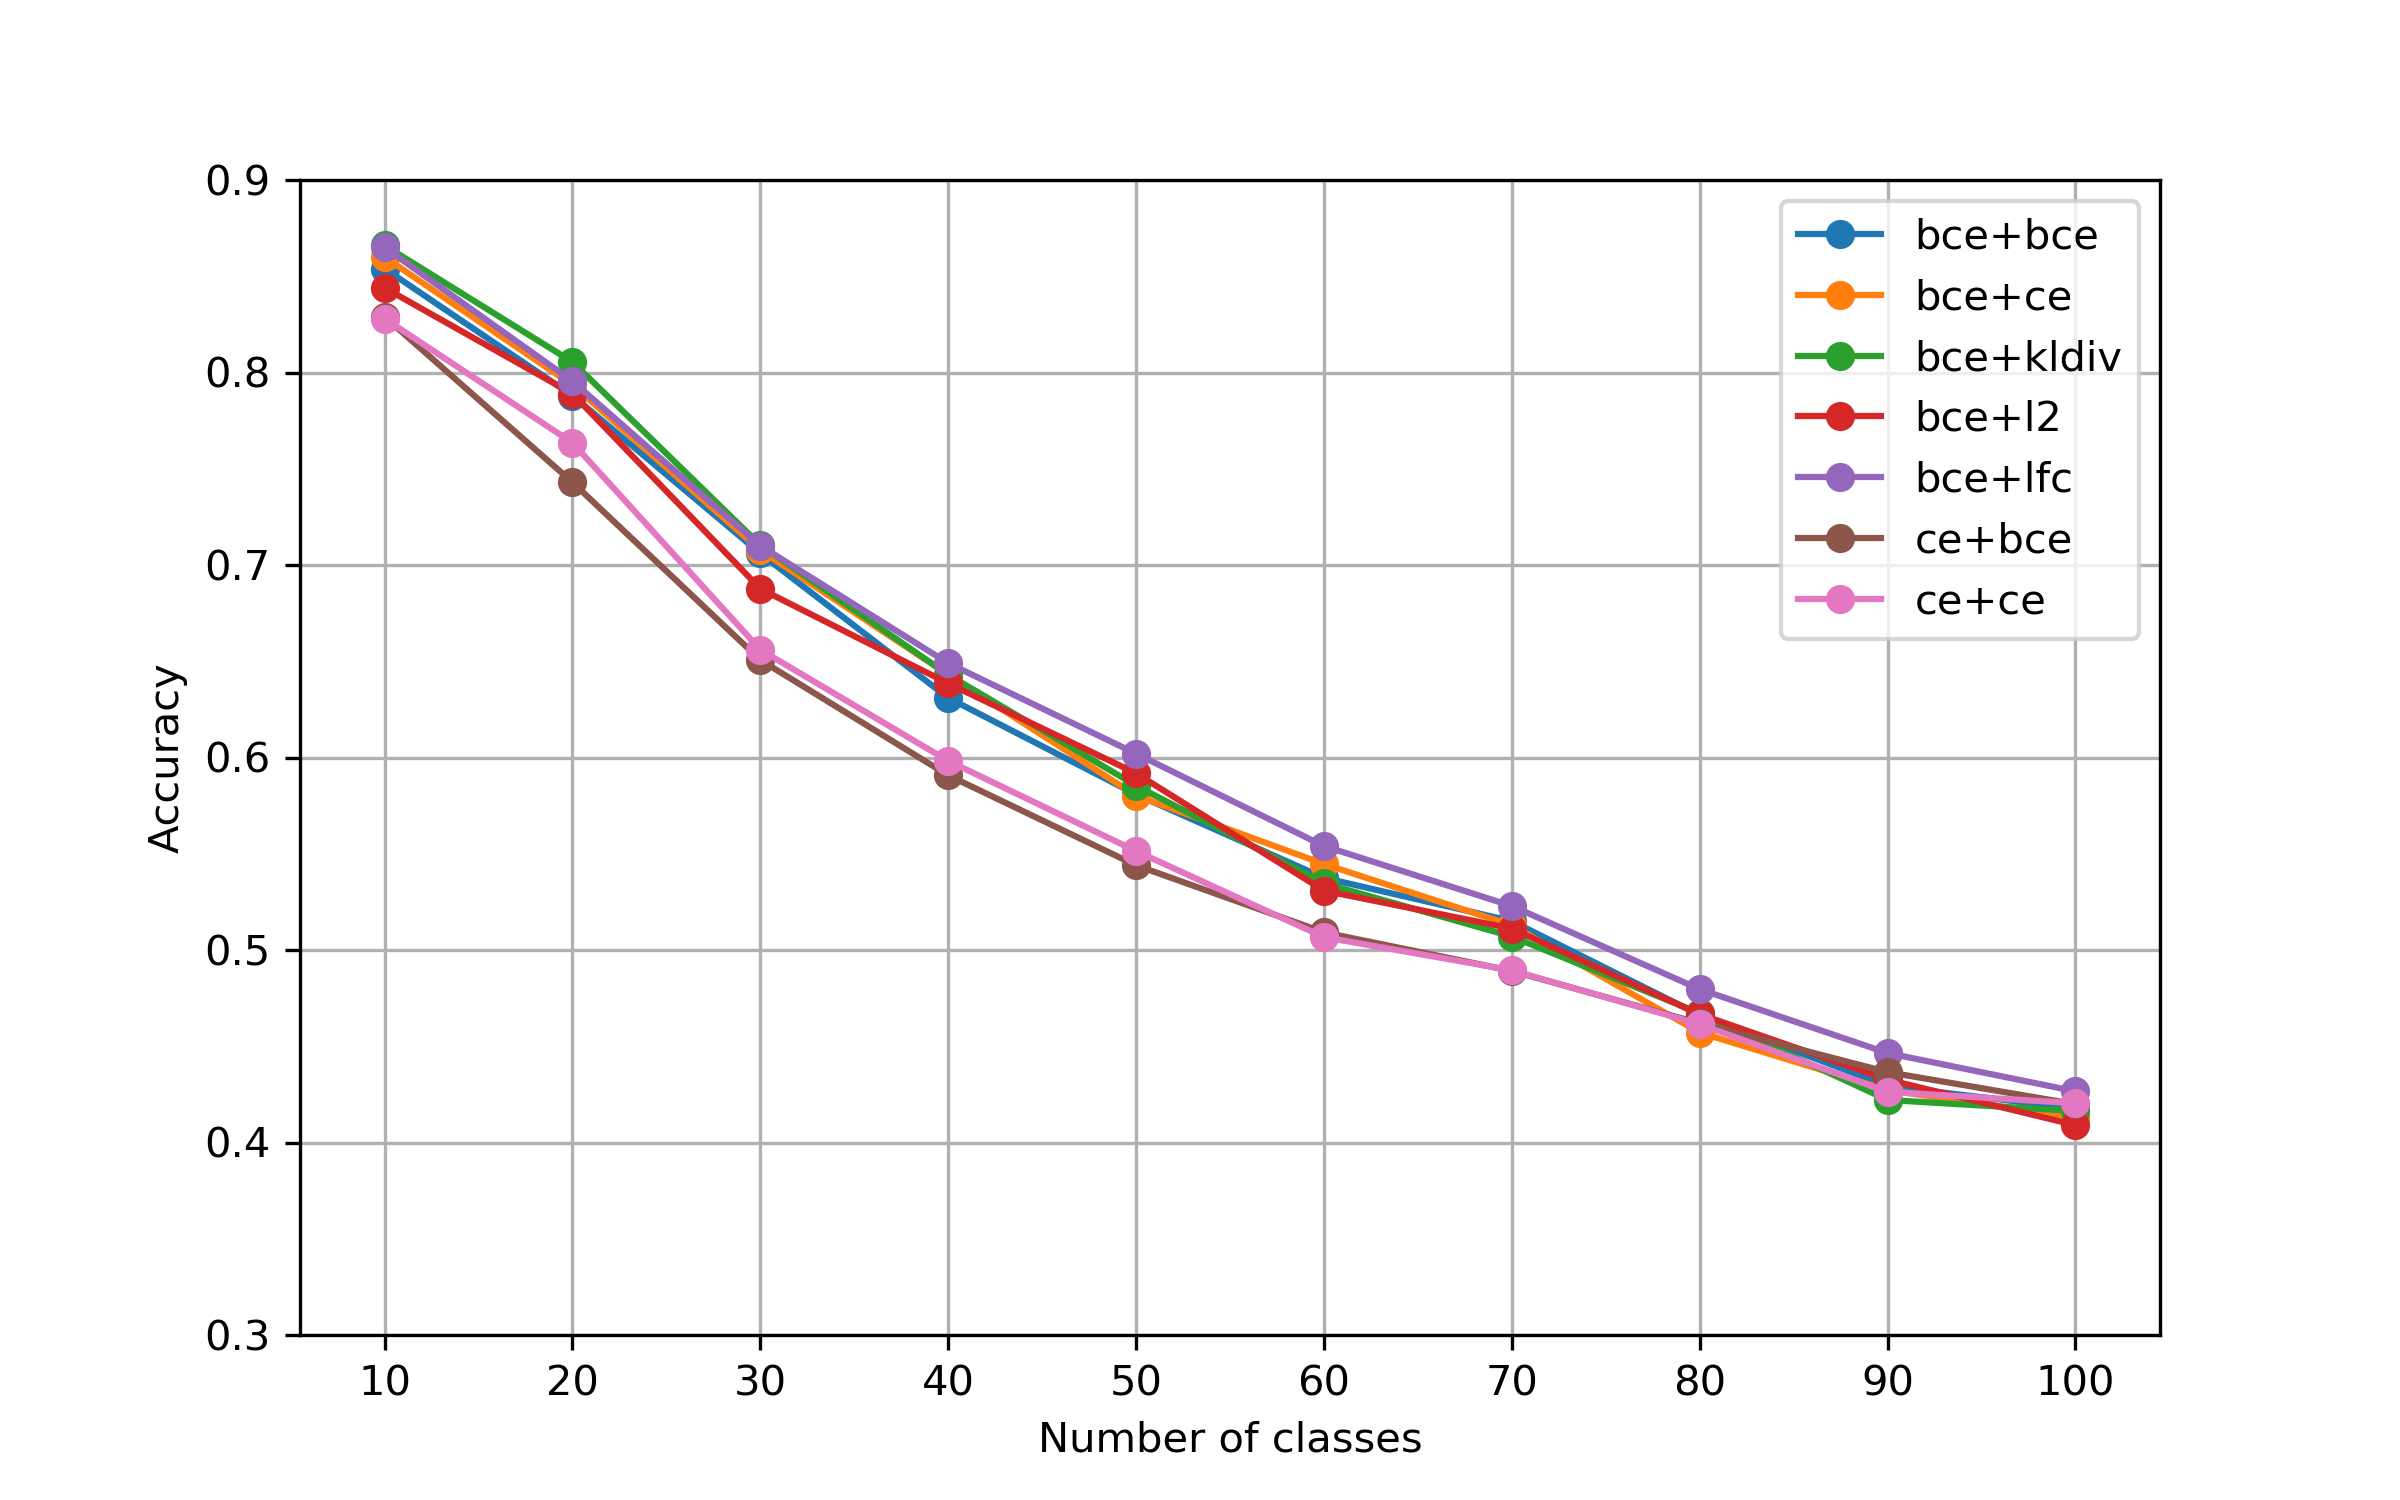
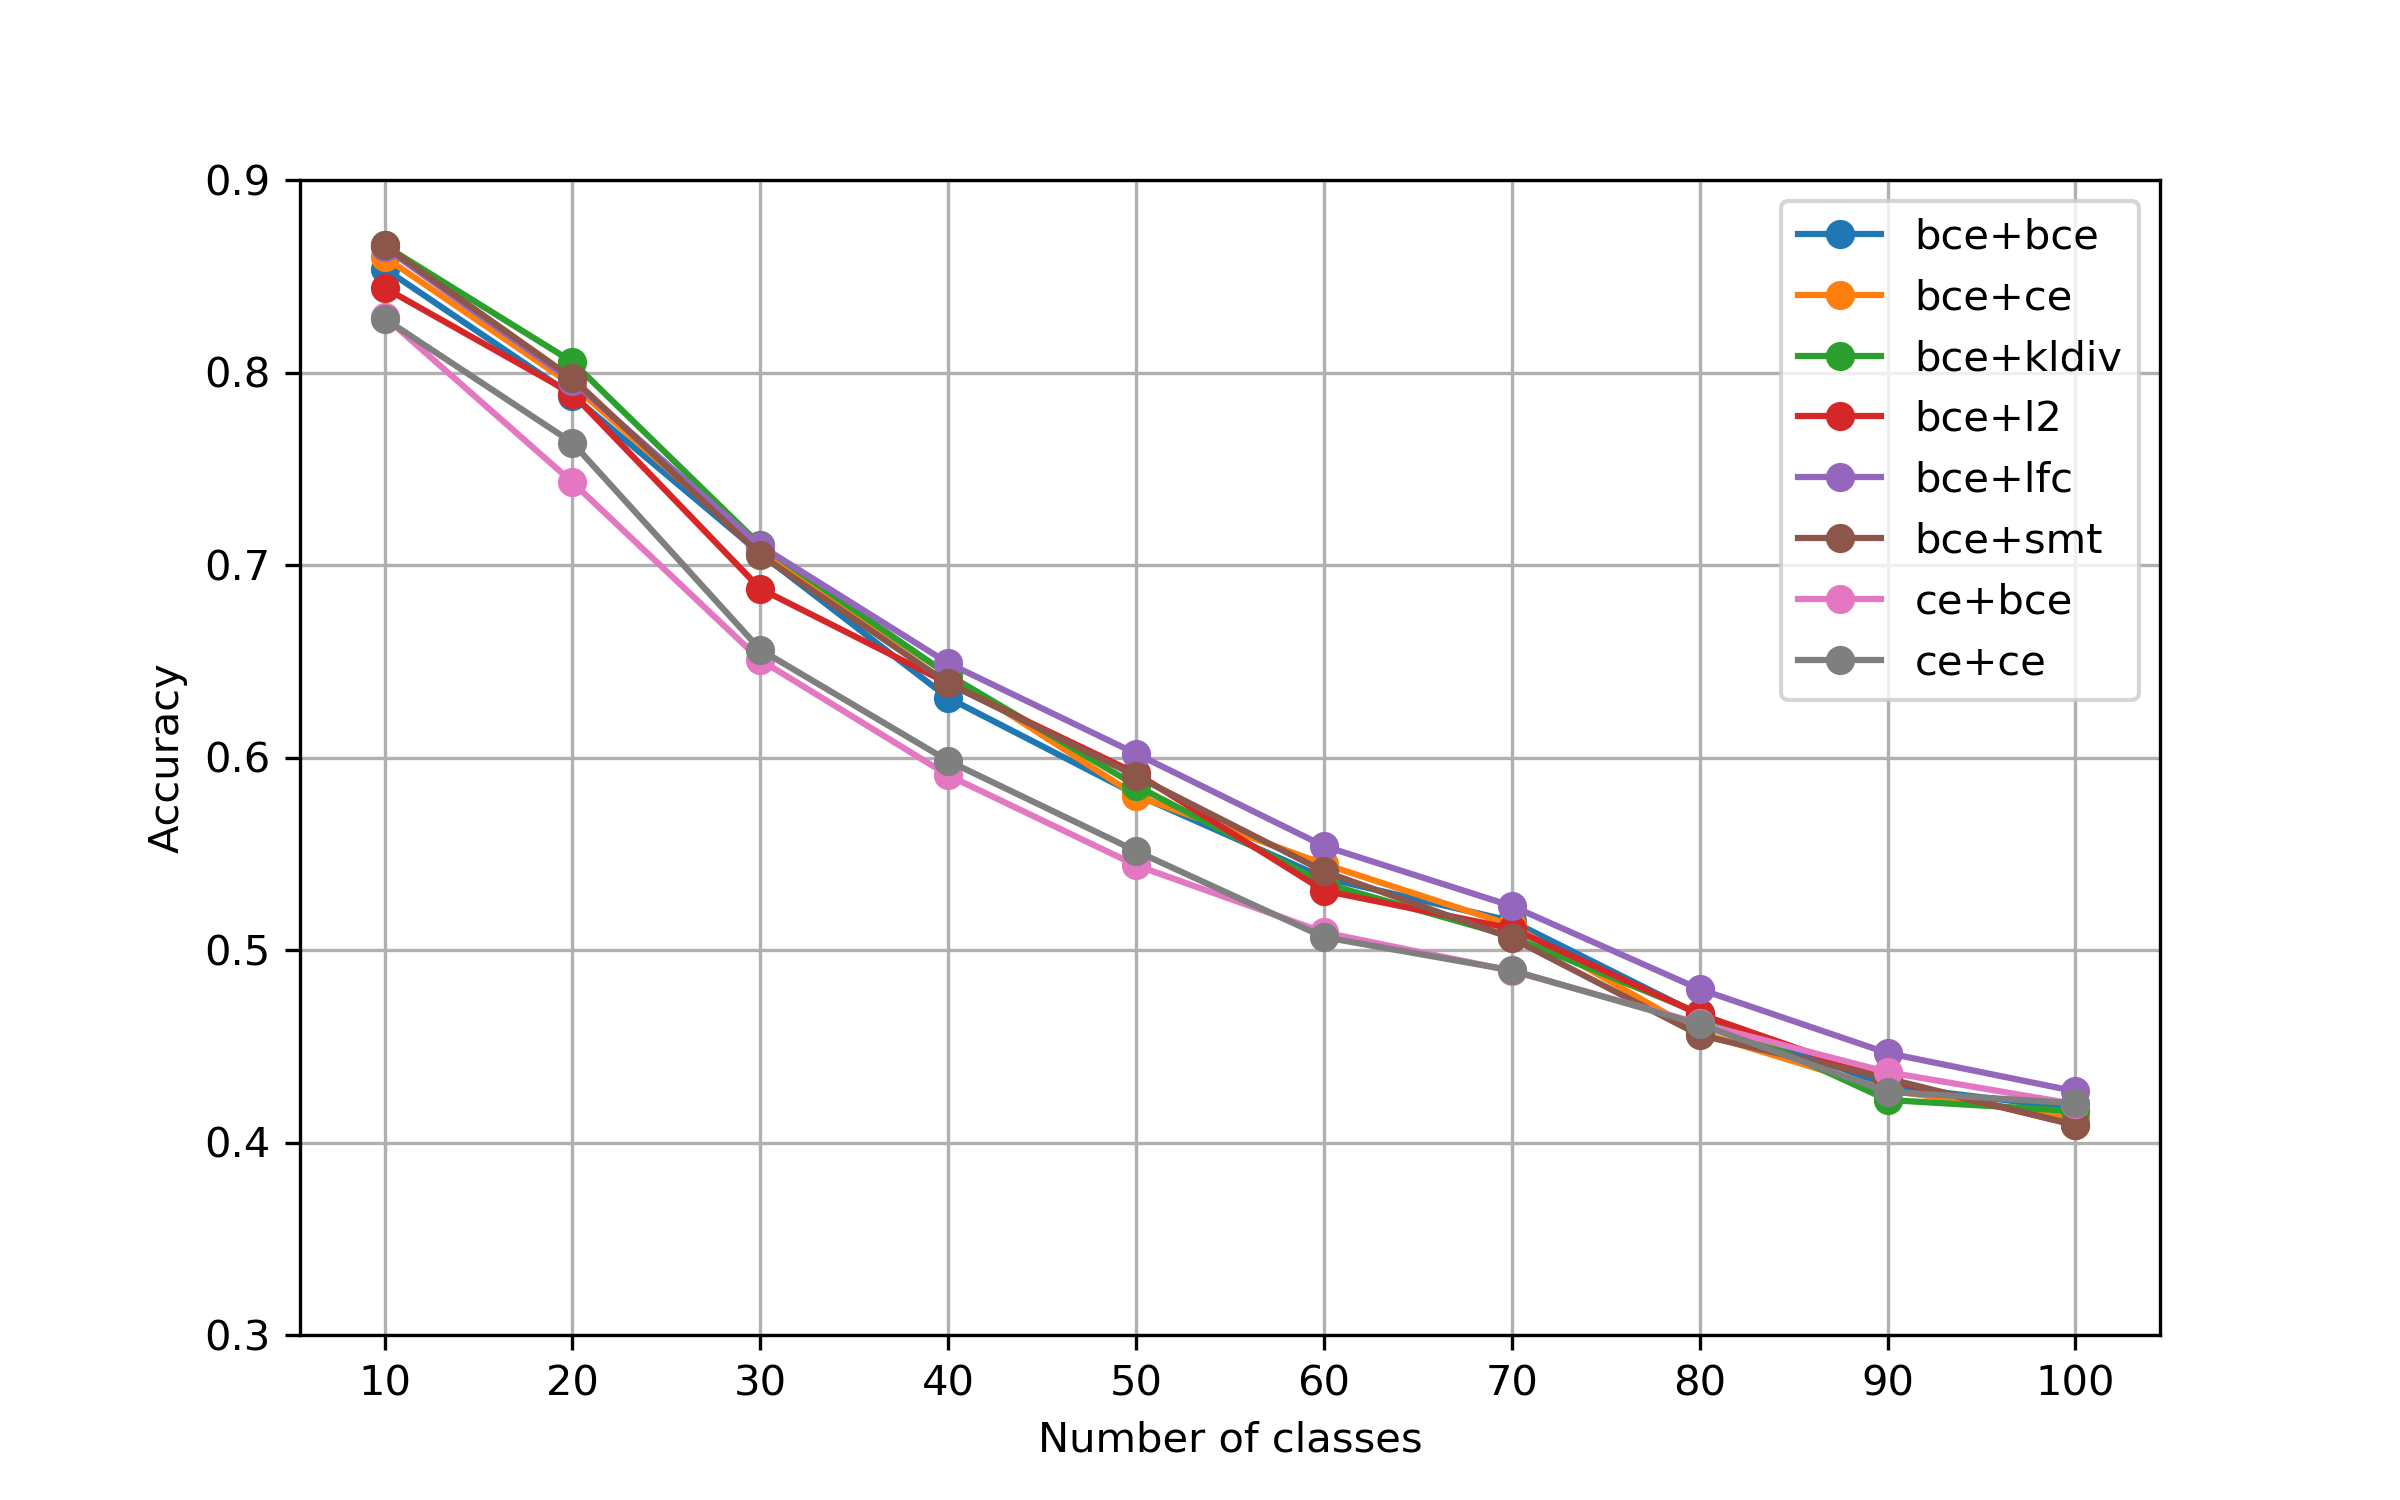
bug fix

diff --git a/libs/ablationstudy_losses.py b/libs/ablationstudy_losses.py
@@ -19,7 +19,7 @@ def _compute_smt_loss(input, target):
     target = torch.softmax(target / T, dim=1)
     loss = torch.sum(input * target, dim=1, keepdim=False)
     loss = -torch.mean(loss, dim=0, keepdim=False)
-    return T * T * loss
+    return loss
 
 
 # bce with hard target: classification loss in iCaRL
